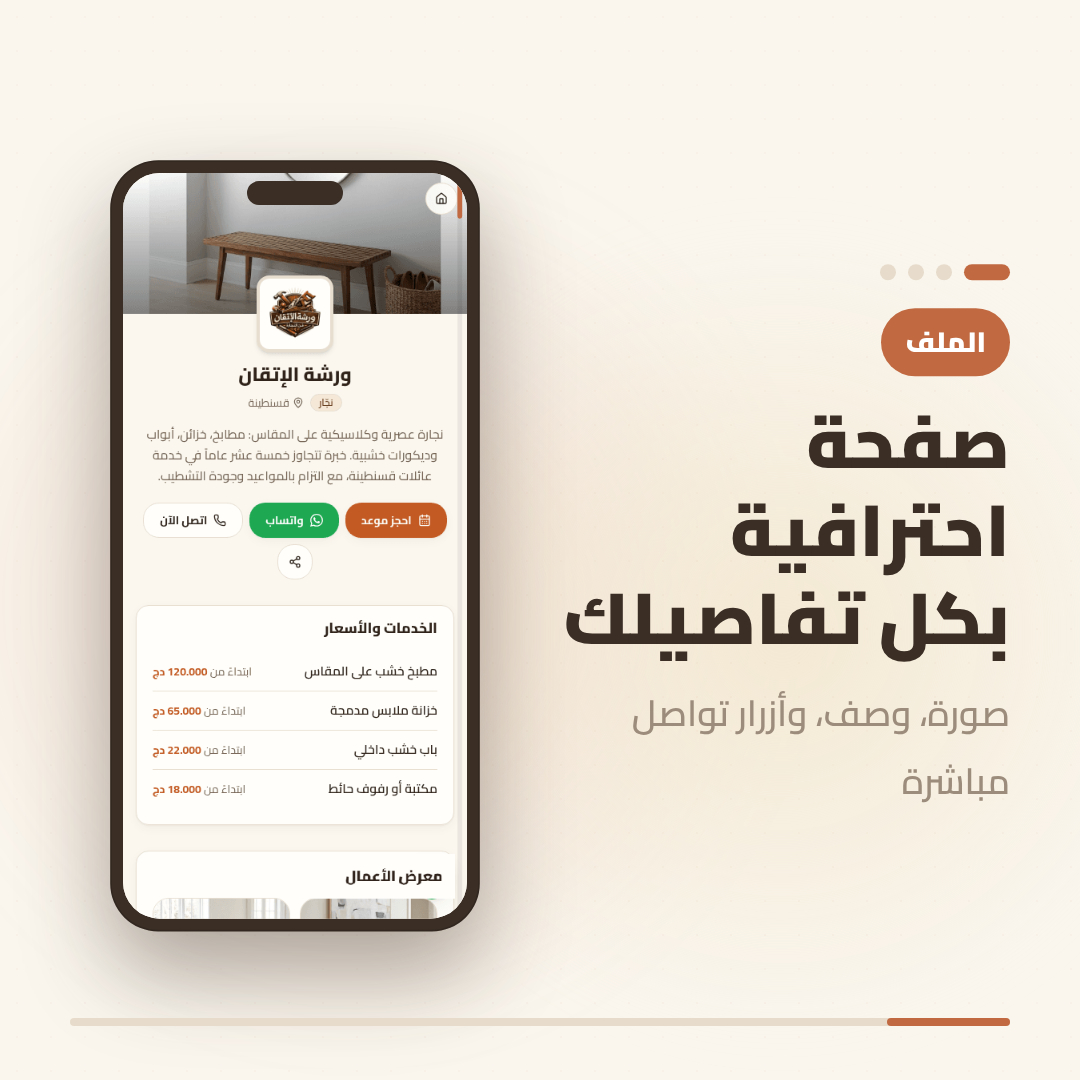
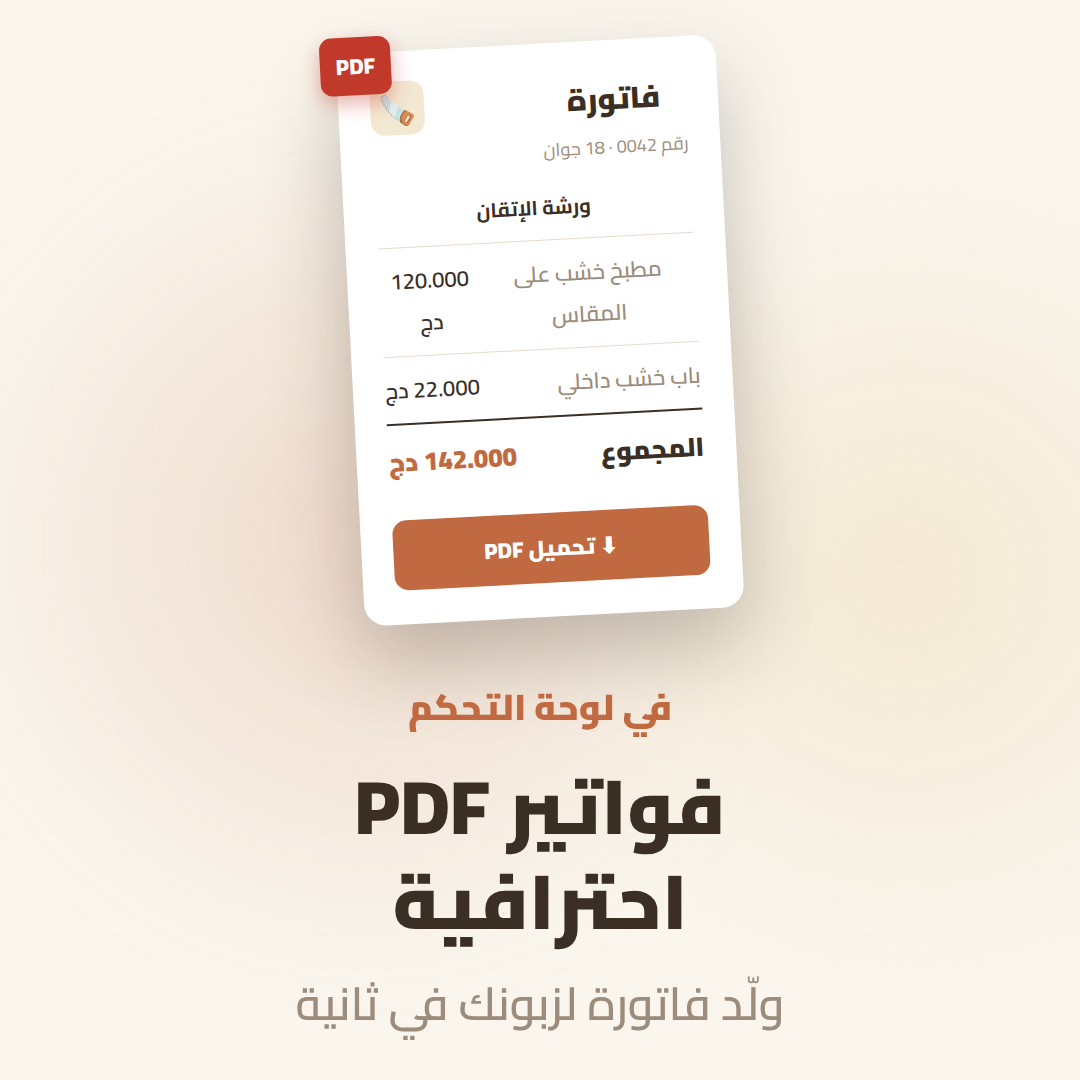
Add PDF invoice + scannable QR scenes before the price
Reintroduces two dashboard feature scenes between the scroll showcase and the
price: an animated PDF invoice mockup (line items + total + download), and a
real QR code generated with qrcode-generator that decodes to
san3apages.com/it9an-demo. Flow (~28s): hook -> scroll -> invoice -> QR ->
price -> CTA.

Claude-Session: https://claude.ai/code/session_01SZnN5jjs87FP6u6wK91y6i

diff --git a/san3a-ad/src/components/InvoiceMockup.tsx b/san3a-ad/src/components/InvoiceMockup.tsx
@@ -1,0 +1,129 @@
+import {theme} from '../theme';
+import {fontFamily} from '../fonts';
+
+// A stylized PDF invoice "paper" for the invoice-generation feature scene.
+const items: [string, string][] = [
+	['مطبخ خشب على المقاس', '120.000'],
+	['باب خشب داخلي', '22.000'],
+];
+
+const Row: React.FC<{label: string; value: string; bold?: boolean}> = ({
+	label,
+	value,
+	bold,
+}) => (
+	<div
+		style={{
+			display: 'flex',
+			justifyContent: 'space-between',
+			fontSize: bold ? 26 : 22,
+			fontWeight: bold ? 900 : 600,
+			color: bold ? theme.ink : theme.muted,
+			padding: '12px 0',
+			borderTop: bold ? `2px solid ${theme.ink}` : `1px solid ${theme.border}`,
+		}}
+	>
+		<span>{label}</span>
+		<span style={{color: bold ? theme.terracotta : theme.ink}}>{value} دج</span>
+	</div>
+);
+
+export const InvoiceMockup: React.FC = () => {
+	return (
+		<div
+			style={{
+				width: 380,
+				background: theme.white,
+				borderRadius: 22,
+				padding: '30px 32px 34px',
+				fontFamily,
+				direction: 'rtl',
+				boxShadow: '0 36px 80px rgba(58,46,37,0.28)',
+				transform: 'rotate(-3deg)',
+				position: 'relative',
+			}}
+		>
+			{/* PDF badge */}
+			<div
+				style={{
+					position: 'absolute',
+					top: -16,
+					left: -16,
+					background: '#c0392b',
+					color: theme.white,
+					fontWeight: 900,
+					fontSize: 22,
+					padding: '8px 16px',
+					borderRadius: 12,
+					boxShadow: '0 8px 20px rgba(192,57,43,0.4)',
+					direction: 'ltr',
+				}}
+			>
+				PDF
+			</div>
+
+			{/* header */}
+			<div
+				style={{
+					display: 'flex',
+					justifyContent: 'space-between',
+					alignItems: 'flex-start',
+					marginBottom: 22,
+				}}
+			>
+				<div>
+					<div style={{fontSize: 30, fontWeight: 900, color: theme.ink}}>
+						فاتورة
+					</div>
+					<div style={{fontSize: 18, color: theme.muted, marginTop: 4}}>
+						رقم 0042 · 18 جوان
+					</div>
+				</div>
+				<div
+					style={{
+						width: 54,
+						height: 54,
+						borderRadius: 14,
+						background: theme.amber,
+						display: 'grid',
+						placeItems: 'center',
+						fontSize: 30,
+					}}
+				>
+					🪚
+				</div>
+			</div>
+
+			<div
+				style={{
+					fontSize: 20,
+					fontWeight: 700,
+					color: theme.ink,
+					marginBottom: 14,
+				}}
+			>
+				ورشة الإتقان
+			</div>
+
+			{items.map(([label, value]) => (
+				<Row key={label} label={label} value={value} />
+			))}
+			<Row label="المجموع" value="142.000" bold />
+
+			<div
+				style={{
+					marginTop: 22,
+					background: theme.terracotta,
+					color: theme.white,
+					textAlign: 'center',
+					borderRadius: 14,
+					padding: '14px 0',
+					fontSize: 22,
+					fontWeight: 800,
+				}}
+			>
+				⬇︎ تحميل PDF
+			</div>
+		</div>
+	);
+};

diff --git a/san3a-ad/src/components/FeatureLayout.tsx b/san3a-ad/src/components/FeatureLayout.tsx
@@ -1,0 +1,81 @@
+import {Rise} from './Rise';
+import {theme} from '../theme';
+import {fontFamily} from '../fonts';
+
+// Shared layout for feature scenes: a visual on top, then title + subtitle.
+export const FeatureLayout: React.FC<{
+	step: string;
+	visual: React.ReactNode;
+	title: React.ReactNode;
+	subtitle: React.ReactNode;
+}> = ({step, visual, title, subtitle}) => {
+	return (
+		<div
+			style={{
+				fontFamily,
+				textAlign: 'center',
+				display: 'flex',
+				flexDirection: 'column',
+				alignItems: 'center',
+				gap: 56,
+			}}
+		>
+			<Rise delay={4} distance={40}>
+				<div style={{position: 'relative', display: 'grid', placeItems: 'center'}}>
+					{/* soft glow behind the visual for extra pop */}
+					<div
+						style={{
+							position: 'absolute',
+							width: 460,
+							height: 460,
+							borderRadius: '50%',
+							background: `radial-gradient(circle, ${theme.terracotta}26 0%, transparent 68%)`,
+							filter: 'blur(8px)',
+						}}
+					/>
+					<div style={{position: 'relative'}}>{visual}</div>
+				</div>
+			</Rise>
+
+			<div>
+				<Rise delay={14}>
+					<div
+						style={{
+							color: theme.terracotta,
+							fontSize: 36,
+							fontWeight: 900,
+							marginBottom: 18,
+						}}
+					>
+						{step}
+					</div>
+				</Rise>
+				<Rise delay={20}>
+					<div
+						style={{
+							fontSize: 76,
+							fontWeight: 900,
+							color: theme.ink,
+							lineHeight: 1.25,
+						}}
+					>
+						{title}
+					</div>
+				</Rise>
+				<Rise delay={28}>
+					<div
+						style={{
+							fontSize: 46,
+							fontWeight: 600,
+							color: theme.muted,
+							lineHeight: 1.4,
+							marginTop: 22,
+						}}
+					>
+						{subtitle}
+					</div>
+				</Rise>
+			</div>
+		</div>
+	);
+};

diff --git a/san3a-ad/src/components/QrCode.tsx b/san3a-ad/src/components/QrCode.tsx
@@ -1,0 +1,52 @@
+import qrcode from 'qrcode-generator';
+import {theme} from '../theme';
+
+// A real, scannable QR code pointing at the demo page.
+const URL = 'https://san3apages.com/it9an-demo';
+const qr = qrcode(0, 'M');
+qr.addData(URL);
+qr.make();
+const COUNT = qr.getModuleCount();
+
+export const QrCode: React.FC<{size?: number}> = ({size = 300}) => {
+	const quiet = 4; // quiet-zone cells on each side
+	const total = COUNT + quiet * 2;
+	const cell = size / total;
+
+	const rects: React.ReactNode[] = [];
+	for (let r = 0; r < COUNT; r++) {
+		for (let c = 0; c < COUNT; c++) {
+			if (qr.isDark(r, c)) {
+				rects.push(
+					<rect
+						key={`${r}-${c}`}
+						x={(c + quiet) * cell}
+						y={(r + quiet) * cell}
+						width={cell + 0.5}
+						height={cell + 0.5}
+						fill={theme.ink}
+						rx={cell * 0.18}
+					/>,
+				);
+			}
+		}
+	}
+
+	return (
+		<div
+			style={{
+				width: size,
+				height: size,
+				background: theme.white,
+				borderRadius: 28,
+				boxShadow: '0 24px 60px rgba(58,46,37,0.18)',
+				display: 'grid',
+				placeItems: 'center',
+			}}
+		>
+			<svg width={size} height={size} viewBox={`0 0 ${size} ${size}`}>
+				{rects}
+			</svg>
+		</div>
+	);
+};

diff --git a/san3a-ad/src/scenes/FeatureQr.tsx b/san3a-ad/src/scenes/FeatureQr.tsx
@@ -1,0 +1,34 @@
+import {FeatureLayout} from '../components/FeatureLayout';
+import {QrCode} from '../components/QrCode';
+import {theme} from '../theme';
+
+export const FeatureQr: React.FC = () => {
+	return (
+		<FeatureLayout
+			step="شارك صفحتك"
+			visual={
+				<div style={{display: 'grid', placeItems: 'center', gap: 20}}>
+					<QrCode size={300} />
+					<span
+						style={{
+							direction: 'ltr',
+							fontSize: 28,
+							fontWeight: 800,
+							color: theme.terracotta,
+						}}
+					>
+						san3apages.com/it9an-demo
+					</span>
+				</div>
+			}
+			title={
+				<>
+					رمز QR
+					<br />
+					لمشاركة سهلة
+				</>
+			}
+			subtitle="علّقه في محلك وخلي الزبائن يمسحوه"
+		/>
+	);
+};

diff --git a/san3a-ad/src/scenes/FeatureInvoice.tsx b/san3a-ad/src/scenes/FeatureInvoice.tsx
@@ -1,0 +1,19 @@
+import {FeatureLayout} from '../components/FeatureLayout';
+import {InvoiceMockup} from '../components/InvoiceMockup';
+
+export const FeatureInvoice: React.FC = () => {
+	return (
+		<FeatureLayout
+			step="في لوحة التحكم"
+			visual={<InvoiceMockup />}
+			title={
+				<>
+					فواتير PDF
+					<br />
+					احترافية
+				</>
+			}
+			subtitle="ولّد فاتورة لزبونك في ثانية"
+		/>
+	);
+};

diff --git a/san3a-ad/src/SanaAd.tsx b/san3a-ad/src/SanaAd.tsx
@@ -3,6 +3,8 @@ import {Background} from './components/Background';
 import {Scene} from './components/Scene';
 import {Hook} from './scenes/Hook';
 import {ScrollShowcase, SHOWCASE_DURATION} from './scenes/ScrollShowcase';
+import {FeatureInvoice} from './scenes/FeatureInvoice';
+import {FeatureQr} from './scenes/FeatureQr';
 import {Pricing} from './scenes/Pricing';
 import {Cta} from './scenes/Cta';
 
@@ -12,6 +14,8 @@ const OVERLAP = 8;
 const scenes: {Comp: React.FC; d: number; fill?: boolean}[] = [
 	{Comp: Hook, d: 85},
 	{Comp: ScrollShowcase, d: SHOWCASE_DURATION + 16, fill: true},
+	{Comp: FeatureInvoice, d: 105},
+	{Comp: FeatureQr, d: 105},
 	{Comp: Pricing, d: 115},
 	{Comp: Cta, d: 125},
 ];

diff --git a/san3a-ad/README.md b/san3a-ad/README.md
@@ -10,14 +10,19 @@ font and the site's own "Nature Distilled" terracotta‑and‑cream palette.
 
 ![poster](out/poster.png)
 
-## What's in it (≈21s, 1080×1080 square, 30fps)
+## What's in it (≈28s, 1080×1080 square, 30fps)
 
 | # | Scene | Message |
 |---|-------|---------|
 | 1 | Hook | عندك صنعة؟ أعطيها حضور رقمي في دقائق |
 | 2 | **Scroll showcase** | Phone scrolls the real page on the left while the headline on the right swaps per section: **الملف** (profile/photo/description/buttons) → **الخدمات** (services + prices) → **المعرض** (gallery) → **الموعد** (date picker + WhatsApp booking) |
-| 3 | Pricing | 4500 دج في السنة — مفتاح تفعيل تشريه كاش |
-| 4 | CTA | ابدأ اليوم — san3apages.com |
+| 3 | Invoices | فواتير PDF احترافية — animated PDF invoice mockup (في لوحة التحكم) |
+| 4 | QR code | رمز QR لمشاركة سهلة — a **real, scannable** QR to `san3apages.com/it9an-demo` |
+| 5 | Pricing | 4500 دج في السنة — مفتاح تفعيل تشريه كاش |
+| 6 | CTA | ابدأ اليوم — san3apages.com |
+
+> The QR is generated at render time with `qrcode-generator` (`src/components/QrCode.tsx`)
+> and verified to decode back to the demo URL — not a decorative graphic.
 
 ### The scrolling page
 